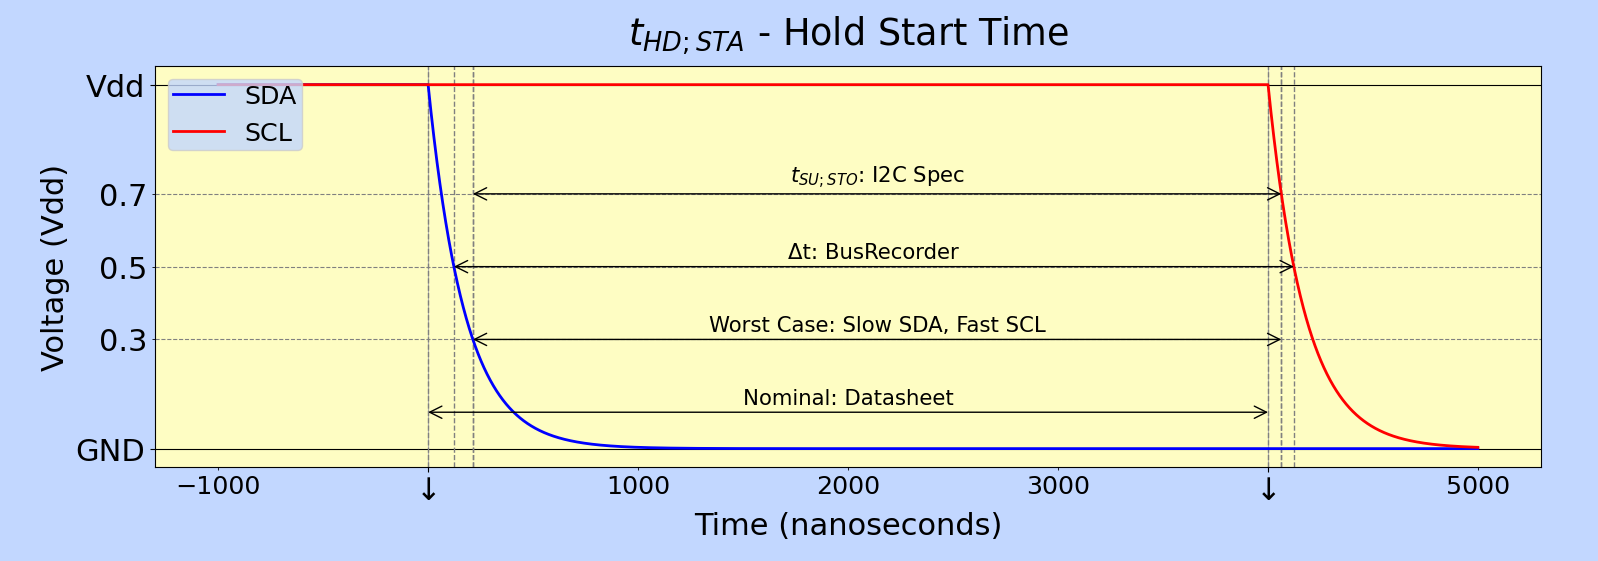
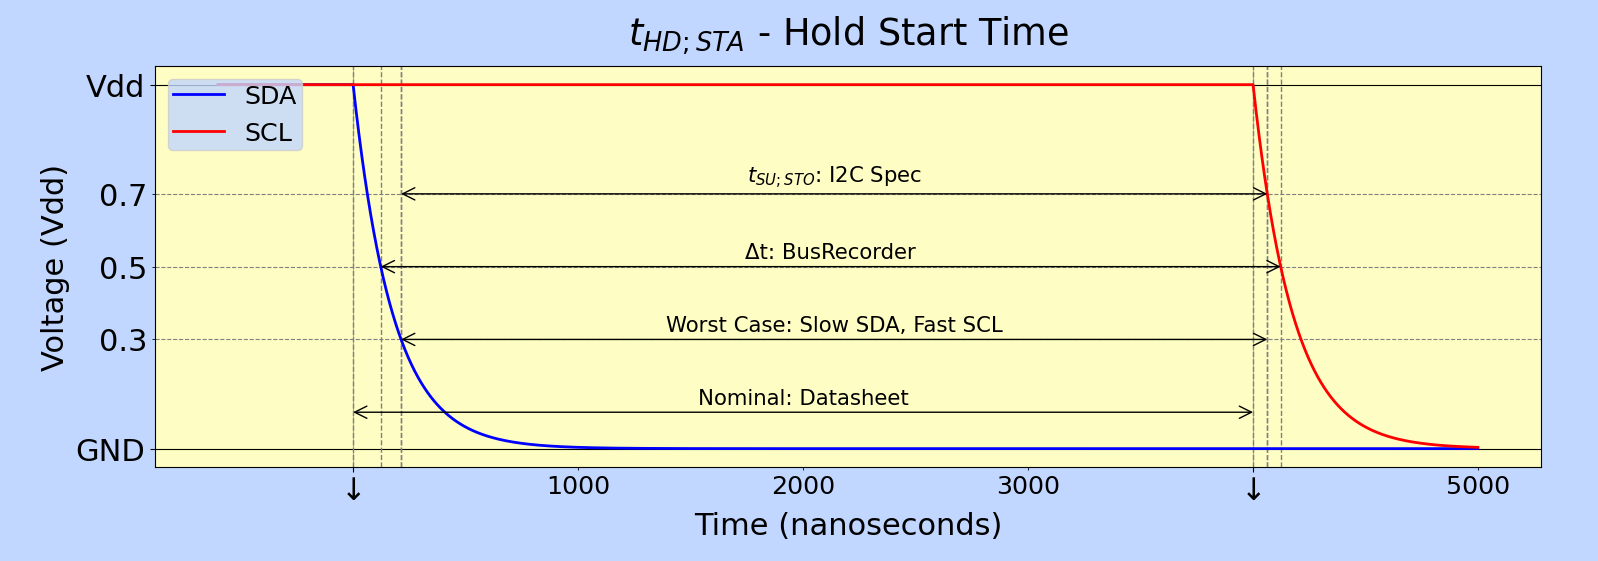
Added analysis for tSU;STA - Setup Time for a Repeated START

diff --git a/tools/i2c_timing_calculator/test/test_i2c_timing_calculator.py b/tools/i2c_timing_calculator/test/test_i2c_timing_calculator.py
@@ -34,14 +34,74 @@ class TestI2CTimingCalculator(TestCase):
 
     def assert_i2c_nominal_equal(self, actual: Parameter, t):
         delta = 100  # nanoseconds
-        expected: Parameter = t['expected']
-        self.assertEqual(expected.i2c_value, actual.i2c_value)
-        self.assertEqual(expected.nominal, actual.nominal)
-        self.assertEqual(expected.worst_case, actual.worst_case)
         measured: Parameter = t['measured']
         self.assertAlmostEqual(measured.i2c_value, actual.i2c_value, delta=delta)
         self.assertAlmostEqual(measured.nominal, actual.nominal, delta=delta)
         self.assertAlmostEqual(measured.worst_case, actual.worst_case, delta=delta)
+        expected: Parameter = t['expected']
+        self.assertEqual(expected.i2c_value, actual.i2c_value)
+        self.assertEqual(expected.nominal, actual.nominal)
+        self.assertEqual(expected.worst_case, actual.worst_case)
+
+
+    def test_setup_repeated_start_depends_on_sda_rise_time(self):
+        # All results in this test case were measured with an oscilloscope
+        test_cases = [
+            {'sda_rise': 1384, 'scl_rise': 32,
+             'measured': Parameter(i2c=4860, nominal=6830, worst_case=5023),
+             'expected': Parameter(i2c=4870, nominal=6833, worst_case=5023)},
+            {'sda_rise': 434, 'scl_rise': 32,
+             'measured': Parameter(i2c=5330, nominal=5910, worst_case=5023),
+             'expected': Parameter(i2c=5386, nominal=6000, worst_case=5023)},
+            {'sda_rise': 182, 'scl_rise': 32,
+             'measured': Parameter(i2c=5510, nominal=5740, worst_case=5023),
+             'expected': Parameter(i2c=5494, nominal=5750, worst_case=5023)},
+            {'sda_rise': 31, 'scl_rise': 32,
+             'measured': Parameter(i2c=5550, nominal=5590, worst_case=5023),
+             'expected': Parameter(i2c=5542, nominal=5583, worst_case=5023)},
+        ]
+        for t in test_cases:
+            config = self.build_config(scl_risetime=t['sda_rise'], sda_risetime=t['scl_rise'])
+            actual = config.setup_repeated_start()
+            self.assert_i2c_nominal_equal(actual, t)
+
+    def test_setup_repeated_start_depends_on_filtscl(self):
+        # All results in this test case were measured with an oscilloscope
+        test_cases = [
+            {'sda_rise': 1384, 'scl_rise': 32, 'filtscl': 5,
+             'measured': Parameter(i2c=4860, nominal=6830, worst_case=5023),
+             'expected': Parameter(i2c=4870, nominal=6833, worst_case=5023)},
+            # ROUNDDOWN ensures that FILTSCL 4 is identical to FILTSCL 5
+            {'sda_rise': 1384, 'scl_rise': 32, 'filtscl': 4,
+             'measured': Parameter(i2c=4830, nominal=6820, worst_case=5023),
+             'expected': Parameter(i2c=4870, nominal=6833, worst_case=5023)},
+            {'sda_rise': 1384, 'scl_rise': 32, 'filtscl': 1,
+             'measured': Parameter(i2c=4680, nominal=6660, worst_case=4856),
+             'expected': Parameter(i2c=4703, nominal=6666, worst_case=4856)},
+            # ROUNDDOWN ensures that FILTSCL 0 is identical to FILTSCL 1
+            {'sda_rise': 1384, 'scl_rise': 32, 'filtscl': 0,
+             'measured': Parameter(i2c=4680, nominal=6660, worst_case=4856),
+             'expected': Parameter(i2c=4703, nominal=6666, worst_case=4856)},
+        ]
+        for t in test_cases:
+            config = self.build_config(filtscl=t['filtscl'], scl_risetime=t['sda_rise'], sda_risetime=t['scl_rise'])
+            actual = config.setup_repeated_start()
+            self.assert_i2c_nominal_equal(actual, t)
+
+    def test_setup_repeated_start_depends_on_prescale(self):
+        # All results in this test case were measured with an oscilloscope
+        test_cases = [
+            {'sda_rise': 1384, 'scl_rise': 32, 'prescale': 1,
+             'measured': Parameter(i2c=4860, nominal=6830, worst_case=5023),
+             'expected': Parameter(i2c=4870, nominal=6833, worst_case=5023)},
+            {'sda_rise': 1384, 'scl_rise': 32, 'prescale': 2,
+             'measured': Parameter(i2c=10180, nominal=12160, worst_case=10273),
+             'expected': Parameter(i2c=10203, nominal=12166, worst_case=10273)},
+        ]
+        for t in test_cases:
+            config = self.build_config(prescale=t['prescale'], scl_risetime=t['sda_rise'], sda_risetime=t['scl_rise'])
+            actual = config.setup_repeated_start()
+            self.assert_i2c_nominal_equal(actual, t)
 
     def test_stop_setup_depends_on_sda_rise_time(self):
         # All results in this test case were measured with an oscilloscope

diff --git a/tools/scope_simulator/make_timing_design_plots.py b/tools/scope_simulator/make_timing_design_plots.py
@@ -56,16 +56,18 @@ def illustrate_different_edge_detection_points():
 
 
 def setup_start_time() -> I2CTrace:
-    start = -1000
-    end = 7550
-    trace = I2CTrace("$t_{SU;STA}$ - Setup Start Time", start, end)
-    trace.sda.high().fall_at(0)
-    trace.scl.high().fall_at(5330)
+    trace = I2CTrace("$t_{SU;STA}$ - Setup Time for Repeated Start", -700, 6000)
+    trace.sda.set_fall_time(150).high().fall_at(5500)
+    trace.scl.set_rise_time(1000).low().rise_at(0)
+    trace.measure_between_edges("$t_{SU;STA}$: I2C Spec", left=['SCL', 0, V_IH], right=['SDA', 0, V_IH], y_pos=0.70)
+    trace.measure_between_edges("Δt: BusRecorder", left=['SCL', 0, V_MID], right=['SDA', 0, V_MID], y_pos=0.5)
+    trace.measure_between_edges("Worst Case: Slow SCL, Fast SDA", left=['SCL', 0, V_IH], right=['SDA', 0, V_IH], y_pos=0.3)
+    trace.measure_between_edges("Nominal: Datasheet", left=['SCL', 0, LOW], right=['SDA', 0, HIGH], y_pos=0.1)
     return trace
 
 
 def hold_start_time() -> I2CTrace:
-    trace = I2CTrace("$t_{HD;STA}$ - Hold Start Time", -1000, 5000)
+    trace = I2CTrace("$t_{HD;STA}$ - Hold Start Time", -600, 5000)
     trace.sda.set_fall_time(150).high().fall_at(0)
     trace.scl.set_fall_time(150).high().fall_at(4000)
     trace.measure_between_edges("$t_{SU;STO}$: I2C Spec", left=['SDA', 0, V_IL], right=['SCL', 0, V_IH], y_pos=0.7)
@@ -76,13 +78,13 @@ def hold_start_time() -> I2CTrace:
 
 
 def setup_stop_time() -> I2CTrace:
-    trace = I2CTrace("$t_{SU;STO}$ - Setup Stop Time", -1000, 5000)
+    trace = I2CTrace("$t_{SU;STO}$ - Setup Stop Time", -600, 5000)
     trace.sda.set_rise_time(200).low().rise_at(4000)
     trace.scl.set_rise_time(1000).low().rise_at(0)
     trace.measure_between_edges("$t_{SU;STO}$: I2C Spec", left=['SCL', 0, V_IH], right=['SDA', 0, V_IL], y_pos=0.70)
     trace.measure_between_edges("Δt: BusRecorder", left=['SCL', 0, V_MID], right=['SDA', 0, V_MID], y_pos=0.5)
     trace.measure_between_edges("Worst Case: Slow SCL, Fast SDA", left=['SCL', 0, V_IH], right=['SDA', 0, V_IL], y_pos=0.3)
-    trace.measure_between_edges("Nominal: Datasheet", left=['SCL', 0, LOW], right=['SDA', 0, 0], y_pos=0.1)
+    trace.measure_between_edges("Nominal: Datasheet", left=['SCL', 0, LOW], right=['SDA', 0, LOW], y_pos=0.1)
     return trace
 
 
@@ -109,8 +111,8 @@ if __name__ == '__main__':
     output_dir = "../../documentation/i2c_design/images"
     # plot(illustrate_rise_and_fall_times, f"{output_dir}/rise_and_fall_times.png", show=False)
     # plot(illustrate_different_edge_detection_points, f"{output_dir}/different_intervals_for_different_devices.png", show=True)
-    # plot(setup_start_time, f"{output_dir}/setup_start.png", show=True)
-    plot(hold_start_time, f"{output_dir}/hold_start.png", show=True)
-    plot(setup_stop_time, f"{output_dir}/setup_stop.png", show=True)
+    plot(setup_start_time, f"{output_dir}/setup_start.png", show=True)
+    # plot(hold_start_time, f"{output_dir}/hold_start.png", show=True)
+    # plot(setup_stop_time, f"{output_dir}/setup_stop.png", show=True)
     # plot(high_time, f"{output_dir}//clock_high.png", show=False)
     # plot(data_bit_example, f"{output_dir}/data_bit_example.png", show=False)

diff --git a/tools/i2c_timing_calculator/teensy_config.py b/tools/i2c_timing_calculator/teensy_config.py
@@ -3,6 +3,8 @@ import math
 time_to_rise_to_0_3_vdd = 0.421
 time_to_rise_to_0_7_vdd = 1.421
 time_to_rise_to_teensy_trigger_voltage = 0.911
+time_to_fall_to_0_7_vdd = time_to_rise_to_0_3_vdd
+time_to_fall_to_0_3_vdd = time_to_rise_to_0_7_vdd
 
 
 class Parameter:
@@ -80,11 +82,16 @@ class TeensyConfig:
         # as Teensy controls both fall times, and they're both very short
         return Parameter(i2c_value, nominal, i2c_value)
 
-    def repeated_start(self):
-        ideal = self.scale * (self.SETHOLD + 1 + self.scl_latency())
-        min_value = ideal - self.SCL_RISETIME
-        max_value = ideal + self.pre_rise(self.SDA_RISETIME)
-        return [ideal, min_value, max_value]
+    def setup_repeated_start(self):
+        # ideal = self.scale * (self.SETHOLD + 1 + self.scl_latency())
+        # min_value = ideal - self.SCL_RISETIME
+        # max_value = ideal + self.pre_rise(self.SDA_RISETIME)
+        # return [ideal, min_value, max_value]
+        nominal = self.scale * (self.SETHOLD + 1 + self.SCL_LATENCY(self.scl_risetime))
+        i2c_value = nominal - (self.scl_risetime * time_to_rise_to_0_7_vdd) + (self.fall_time * time_to_fall_to_0_7_vdd)
+        worst_case_nominal = self.scale * (self.SETHOLD + 1 + self.SCL_LATENCY(self.max_rise))
+        worst_case = worst_case_nominal - (self.max_rise * time_to_rise_to_0_7_vdd) + (self.fall_time * time_to_fall_to_0_7_vdd)
+        return Parameter(i2c_value, nominal, worst_case)
 
     def stop_setup(self):
         nominal = self.scale * (self.SETHOLD + 1 + self.SCL_LATENCY(self.scl_risetime))

diff --git a/tools/i2c_timing_calculator/i2c_timing_calculator.py b/tools/i2c_timing_calculator/i2c_timing_calculator.py
@@ -79,8 +79,8 @@ def print_master_timings(config: TeensyConfig):
     # print(f"SDA Rise Time {config.SDA_RISETIME:.2f} clocks")
     # print(f"SDA Latency {config.sda_latency():.0f} clocks")
     # print(f"SCL Latency {config.scl_latency():.0f} clocks {config.scl_latency() * config.period:.0f} nanos")
-    print_parameter(f"START Hold Time (tHD:STA)", config.start_hold())
-    # print_range("Repeated START (tSU:STA)", config.repeated_start())
+    # print_parameter(f"START Hold Time (tHD:STA)", config.start_hold())
+    print_parameter("Setup Repeated START (tSU:STA)", config.setup_repeated_start())
     print_parameter("STOP Setup Time (tSU:STO)", config.stop_setup())
     # print(f"Data Setup Time (tSU:DAT) {config.data_setup():.0f} nanos")
     # print(f" Data Hold Time (tHD:DAT) {config.data_hold():.0f} nanos")

diff --git a/documentation/i2c_design/i2c_timing_analysis.md b/documentation/i2c_design/i2c_timing_analysis.md
@@ -240,7 +240,48 @@ units are LPI2C clock cycles
 
 ## Start and Stop Conditions
 ### t<sub>SU;STA</sub> Setup Time for a Repeated START Condition
-TODO: Fill in
+![t<sub>SU;STA</sub> Setup Time for Repeated Start](images/setup_start.png)
+
+#### Notes
+* controlled entirely by the master device
+* fall time can be neglected
+* there's a minimum value but no maximum value
+
+#### I2C Specification
+* occurs during a repeated START
+  - a repeated START allows the master to send another message without sending a STOP
+  - this reduces latency as there's no need for the STOP or "bus free time" periods
+* starts when SCL rises to 0.7 V<sub>dd</sub>
+* ends when SDA falls to 0.7 V<sub>dd</sub>
+
+#### Datasheet Nominal
+From the datasheet:
+
+**t<sub>SU;STA</sub> = (SETHOLD + 1 + SCL_LATENCY) x (2 ^ PRESCALE) x scale**
+
+Behaviour:
+* the processor releases the SCL pin allowing SCL to rise
+* when it detects that SCL has risen it waits for a time derived from SETHOLD
+  * this provides limited compensation for different rise times
+* when the time has passed it pulls SDA low
+
+Definition:
+* starts when the master releases SCL and it starts to rise
+  * i.e. master sets SCL pin to 1
+* ends when the master pulls SDA LOW and it starts to fall
+  * i.e. master sets SDA pin to 0
+
+Sensitivity to SCL rise time:
+* for a fixed SETHOLD
+  - the setup time falls as the rise time increases
+  - the setup time increases as FILTSCL increases
+
+#### Other Device Worst Case
+* the `i.MX RT1062` does not compensate for the whole SCL rise time
+* so the worst case scenario is that the SCL rise time is very long and
+  the SDA fall time is very short
+* the fall time is controlled by the `i.MX RT1062` and is very short.
+  This means the fall time has a negligible effect and can be ignored.
 
 ### t<sub>HD;STA</sub> Hold Time for a START or Repeated START Condition
 ![t<sub>HD;STA</sub> Hold Start Time](images/hold_start.png)
@@ -256,6 +297,7 @@ TODO: Fill in
 
 #### Datasheet Nominal
 From the datasheet:
+
 **t<sub>HD;STA</sub> = (SETHOLD + 1) x scale**
 
 In theory, the fall time, t<sub>f</sub>, might affect the calculation.
@@ -296,6 +338,7 @@ Confirmed it does not depend on:
 
 #### Datasheet Nominal
 From the datasheet:
+
 **t<sub>SU;STO</sub> = (SETHOLD + 1 + SCL_LATENCY) x (2 ^ PRESCALE) x scale**
 
 Behaviour:
